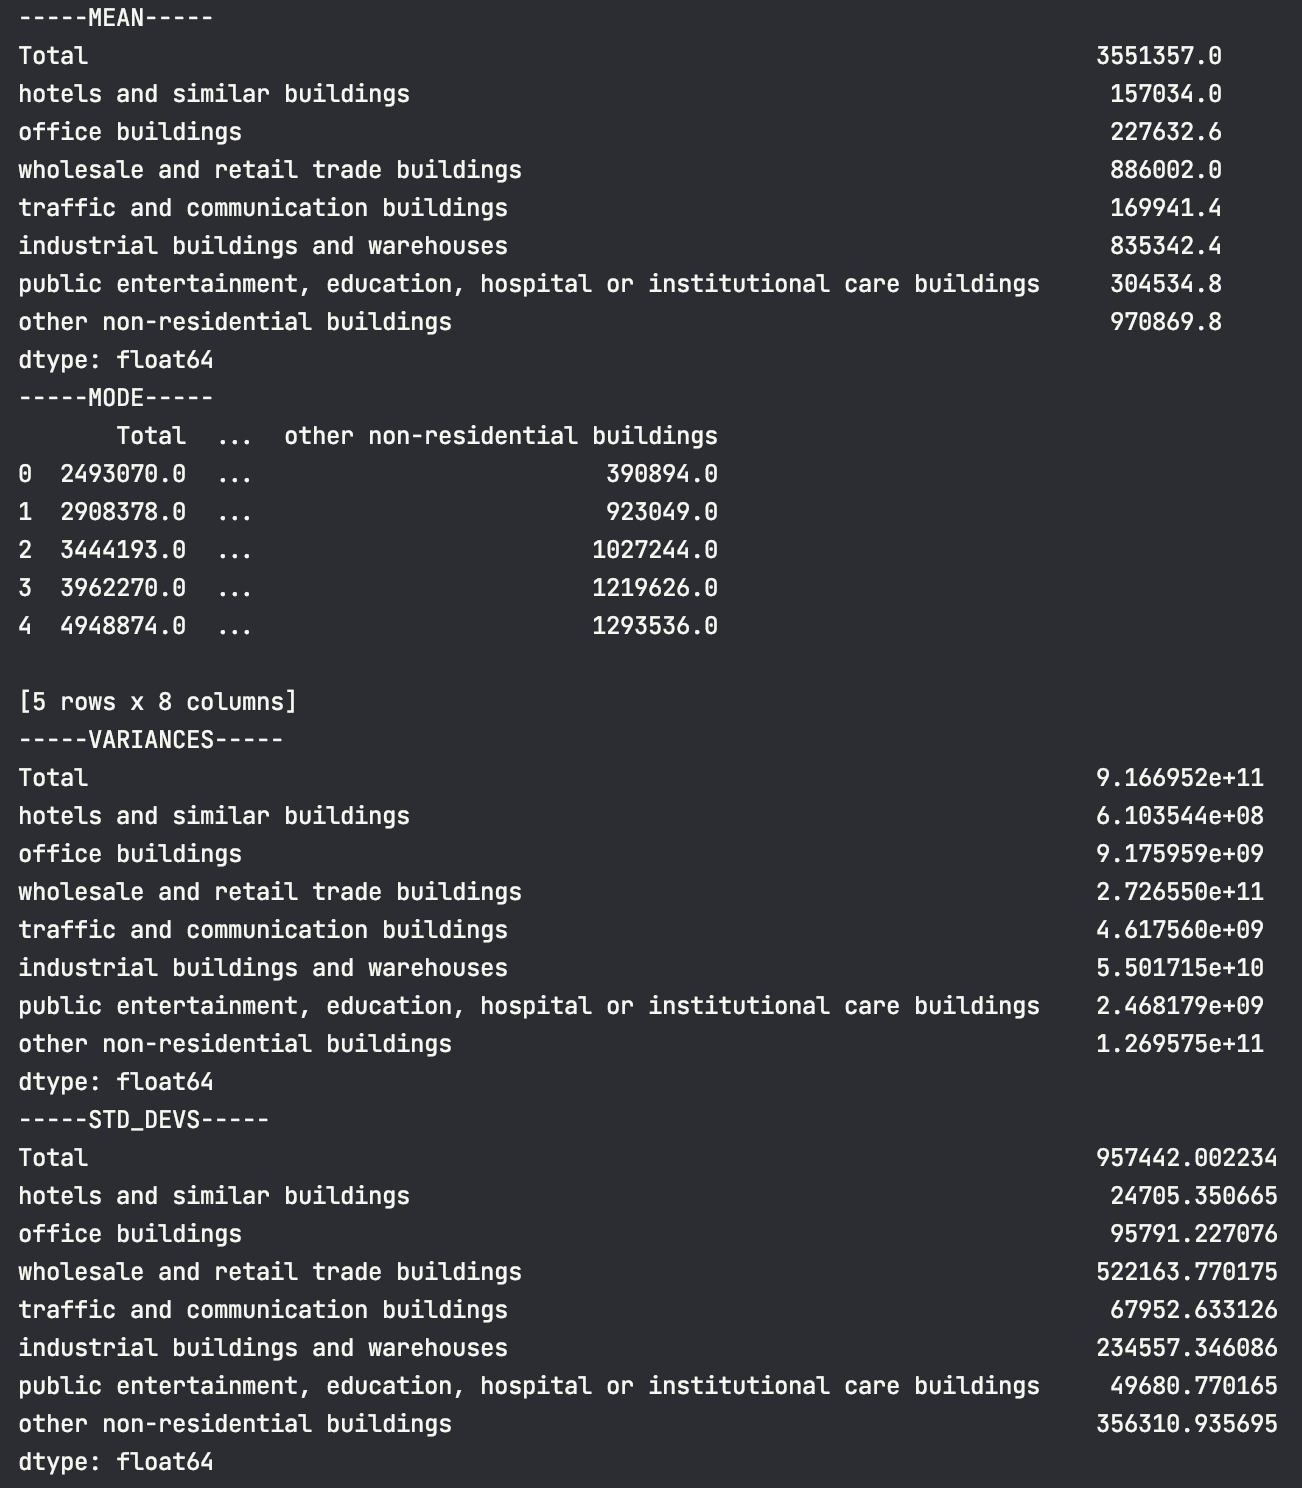
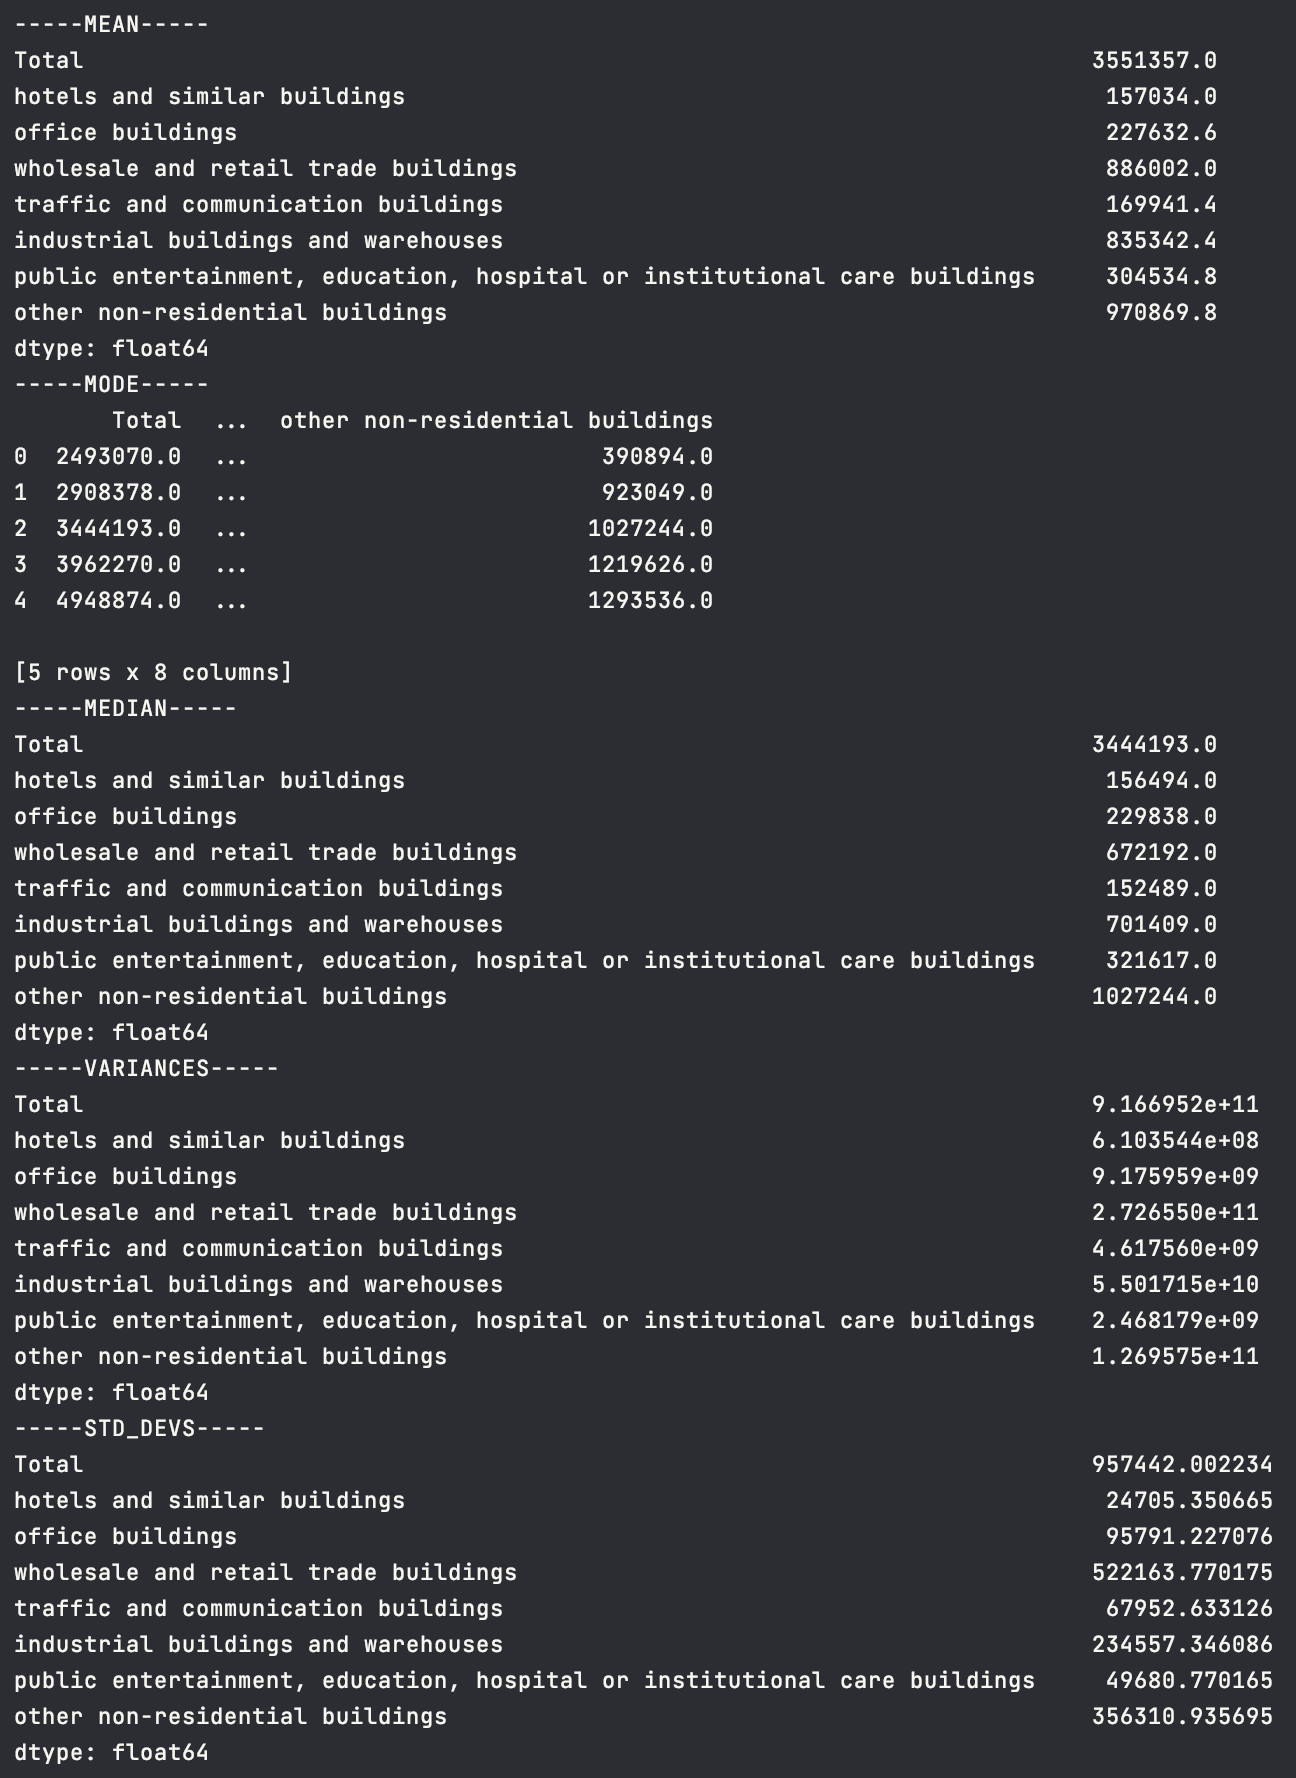
i forgot median

diff --git a/machine-l/lab/lab-1-14.03.2023/matstat/gov_stat.py b/machine-l/lab/lab-1-14.03.2023/matstat/gov_stat.py
@@ -22,6 +22,9 @@ def run():
     print("-----MODE-----")
     print(df.mode())
 
+    print("-----MEDIAN-----")
+    print(df.median())
+
     print("-----VARIANCES-----")
     print(df.var())
 
@@ -29,5 +32,5 @@ def run():
     print(df.std())
 
     # Show histogram
-    # df.hist(bins=10, figsize=(20, 10))
-    plt.show()
+    df.hist(figsize=(20, 10))
+    plt.savefig('gov_hist.png')

diff --git a/machine-l/lab/lab-1-14.03.2023/README.md b/machine-l/lab/lab-1-14.03.2023/README.md
@@ -36,6 +36,8 @@ DataFrame бібліотеки pandas
 
 ### Завдання 1-6
 
+#### Обробка данних
+
 Код цього завдання розміщенно у [government statistics](matstat/gov_stat.py)
 
 Для початку я завантажив данні та видалив непотрібні додатки, такі як коментарі, назви, ітд. Це було поміщено до файлу data.xlsx, з якого ми далі будемо читати. Його на гітхабі немає, бо тримати бінарні файли некоректно.
@@ -55,6 +57,20 @@ DataFrame бібліотеки pandas
 Виглядає вже непогано  
 ![not bad gov_data preview](matstat/assets/not%20bad%20gov-data.png)
 
+#### Статистика
+
 Тепер виконуємо завдання зі статистики. Використовуємо стандартні методи pandas та виводимо їх до stdout
 Ось що вийшло:
 ![gov_stat](matstat/assets/gov_stat.png)
+
+Маємо математичне сподівання, або просто середне арифметичне, значення до якого всі інші прямують.  
+Також в нас э мода, тобто яке значення часто зустричаэться, медиана, тобто буквально середнє знаення та дисперсія з квадратичним, які позказують наскільки розкидані значення
+
+#### Гістограми
+
+Зобразімо наші данні за допомогою гістограми. Для цього можна використати `hist()`
+![gov_hist](matstat/assets/gov_hist.png)
+
+Тут ми можемо побачити які значення популярні серед стовпців
+
+### Завдання 7-11
